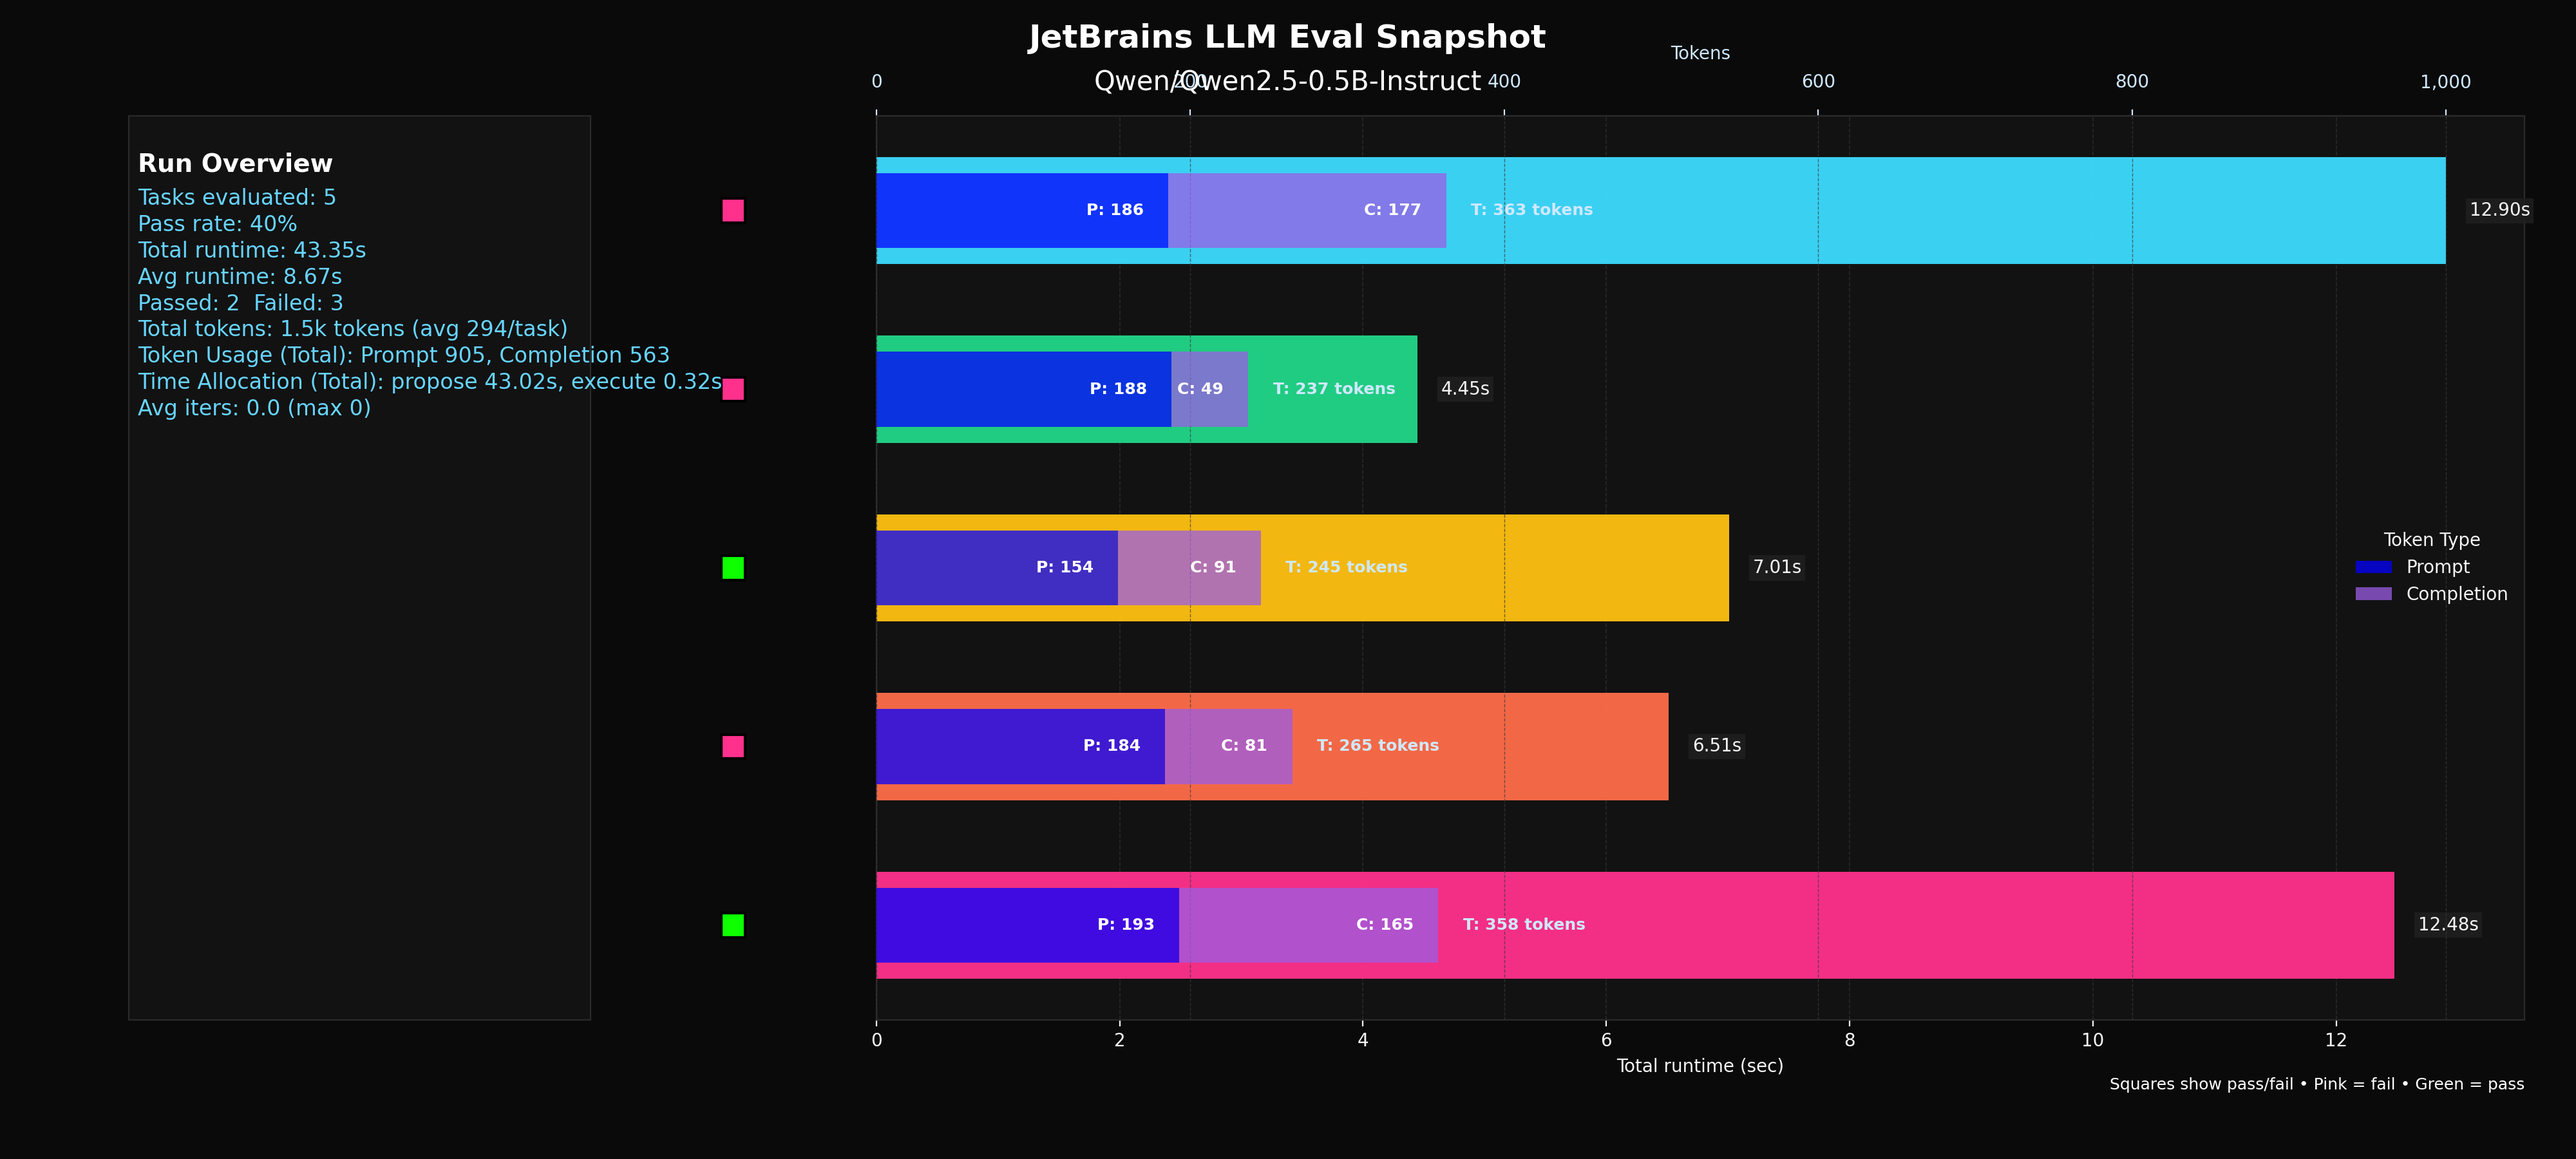
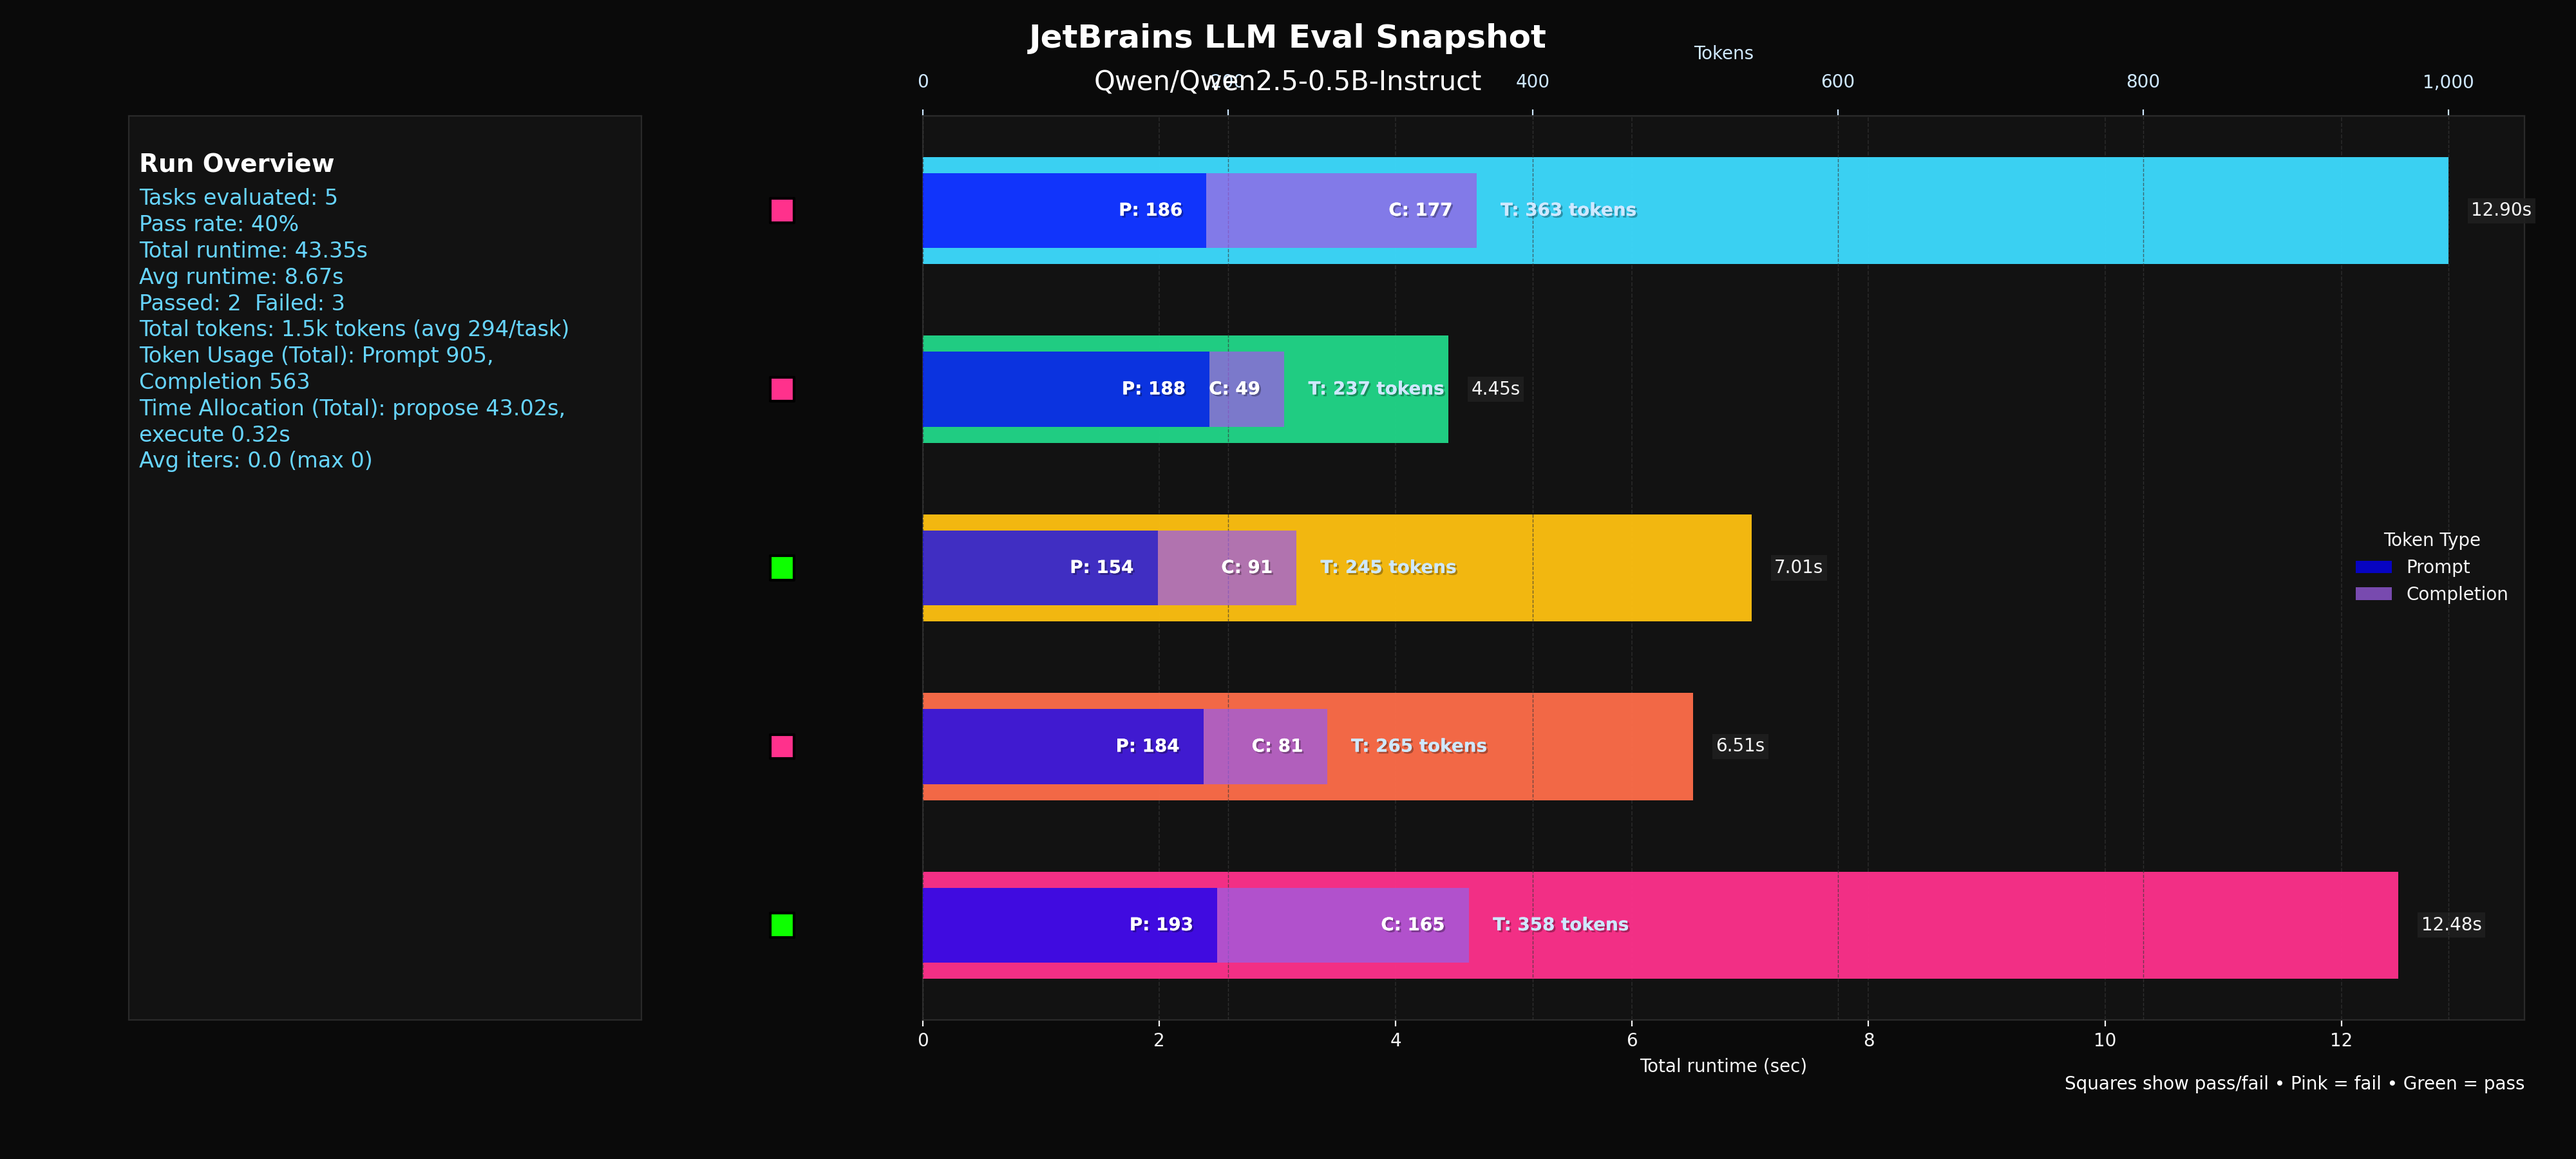
update the font and add a dropshadow for the text

diff --git a/src/visualize_results.py b/src/visualize_results.py
@@ -1,10 +1,12 @@
 import argparse
 import json
 import math
+import textwrap
 from pathlib import Path
 from typing import Dict, List, Optional, Tuple
 
 import matplotlib.pyplot as plt
+from matplotlib import patheffects as pe
 from matplotlib.ticker import FuncFormatter
 
 # JetBrains brand-inspired palette for a bold dark theme
@@ -120,7 +122,7 @@ def plot_results(
 
     fig = plt.figure(figsize=(20, 9), facecolor=JETBRAINS_BACKGROUND)
 
-    grid = fig.add_gridspec(1, 3, width_ratios=[0.28, 0.1, 1.0], wspace=0.08)
+    grid = fig.add_gridspec(1, 3, width_ratios=[0.32, 0.1, 1.0], wspace=0.08)
 
     ax_runtime = fig.add_subplot(grid[2])
     ax_tokens = ax_runtime.twiny()
@@ -310,7 +312,7 @@ def plot_results(
         "va": "center",
         "ha": "right",
         "color": "#FFFFFF",
-        "fontsize": 9,
+        "fontsize": 10,
         "fontweight": "bold",
         "zorder": 8,
     }
@@ -318,10 +320,14 @@ def plot_results(
         "va": "center",
         "ha": "left",
         "color": "#CFE8FF",
-        "fontsize": 9,
+        "fontsize": 10,
         "fontweight": "bold",
         "zorder": 8,
     }
+    token_label_shadow = [
+        pe.withSimplePatchShadow(offset=(1.0, -1.0), shadow_rgbFace=(0, 0, 0, 0.45)),
+        pe.Normal(),
+    ]
 
     for idx_task in range(len(task_ids)):
         propose_prompt = token_usage[idx_task].get("propose_prompt_tokens", 0.0)
@@ -348,27 +354,30 @@ def plot_results(
         total_edge_scaled = completion_edge_scaled
 
         if prompt_total_raw > 0 and prompt_edge_scaled > 0:
-            ax_tokens.text(
+            prompt_text = ax_tokens.text(
                 prompt_edge_scaled - padding_scaled,
                 y_positions[idx_task],
                 f"P: {format_token_value(prompt_total_raw)}",  # Use short formatter
                 **text_props_inside,
             )
+            prompt_text.set_path_effects(token_label_shadow)
 
         if completion_total_raw > 0 and completion_edge_scaled > prompt_edge_scaled:
-            ax_tokens.text(
+            completion_text = ax_tokens.text(
                 completion_edge_scaled - padding_scaled,
                 y_positions[idx_task],
                 f"C: {format_token_value(completion_total_raw)}",  # Use short formatter
                 **text_props_inside,
             )
+            completion_text.set_path_effects(token_label_shadow)
 
-        ax_tokens.text(
+        total_text = ax_tokens.text(
             total_edge_scaled + padding_scaled,
             y_positions[idx_task],
             f"T: {format_token_label(total_raw)}",  # Use long formatter
             **text_props_outside,
         )
+        total_text.set_path_effects(token_label_shadow)
 
     # Dedicated axis keeps pass/fail squares clear of the runtime bars.
     ax_status.set_facecolor("none")
@@ -476,10 +485,18 @@ def plot_results(
         va="top",
         transform=ax_info.transAxes,
     )
+    wrapped_lines: List[str] = []
+    for line in details_lines:
+        segments = textwrap.wrap(line, width=42, break_long_words=False)
+        if segments:
+            wrapped_lines.extend(segments)
+        else:
+            wrapped_lines.append(line)
+
     ax_info.text(
         0.02,
         0.92,
-        "\n".join(details_lines),
+        "\n".join(wrapped_lines),
         color="#67D5FF",
         fontsize=12,
         linespacing=1.3,
@@ -492,7 +509,7 @@ def plot_results(
         0.06,
         "Squares show pass/fail • Pink = fail • Green = pass",
         color="#FFFFFF",
-        fontsize=9,
+        fontsize=10,
         ha="right",
     )
 
